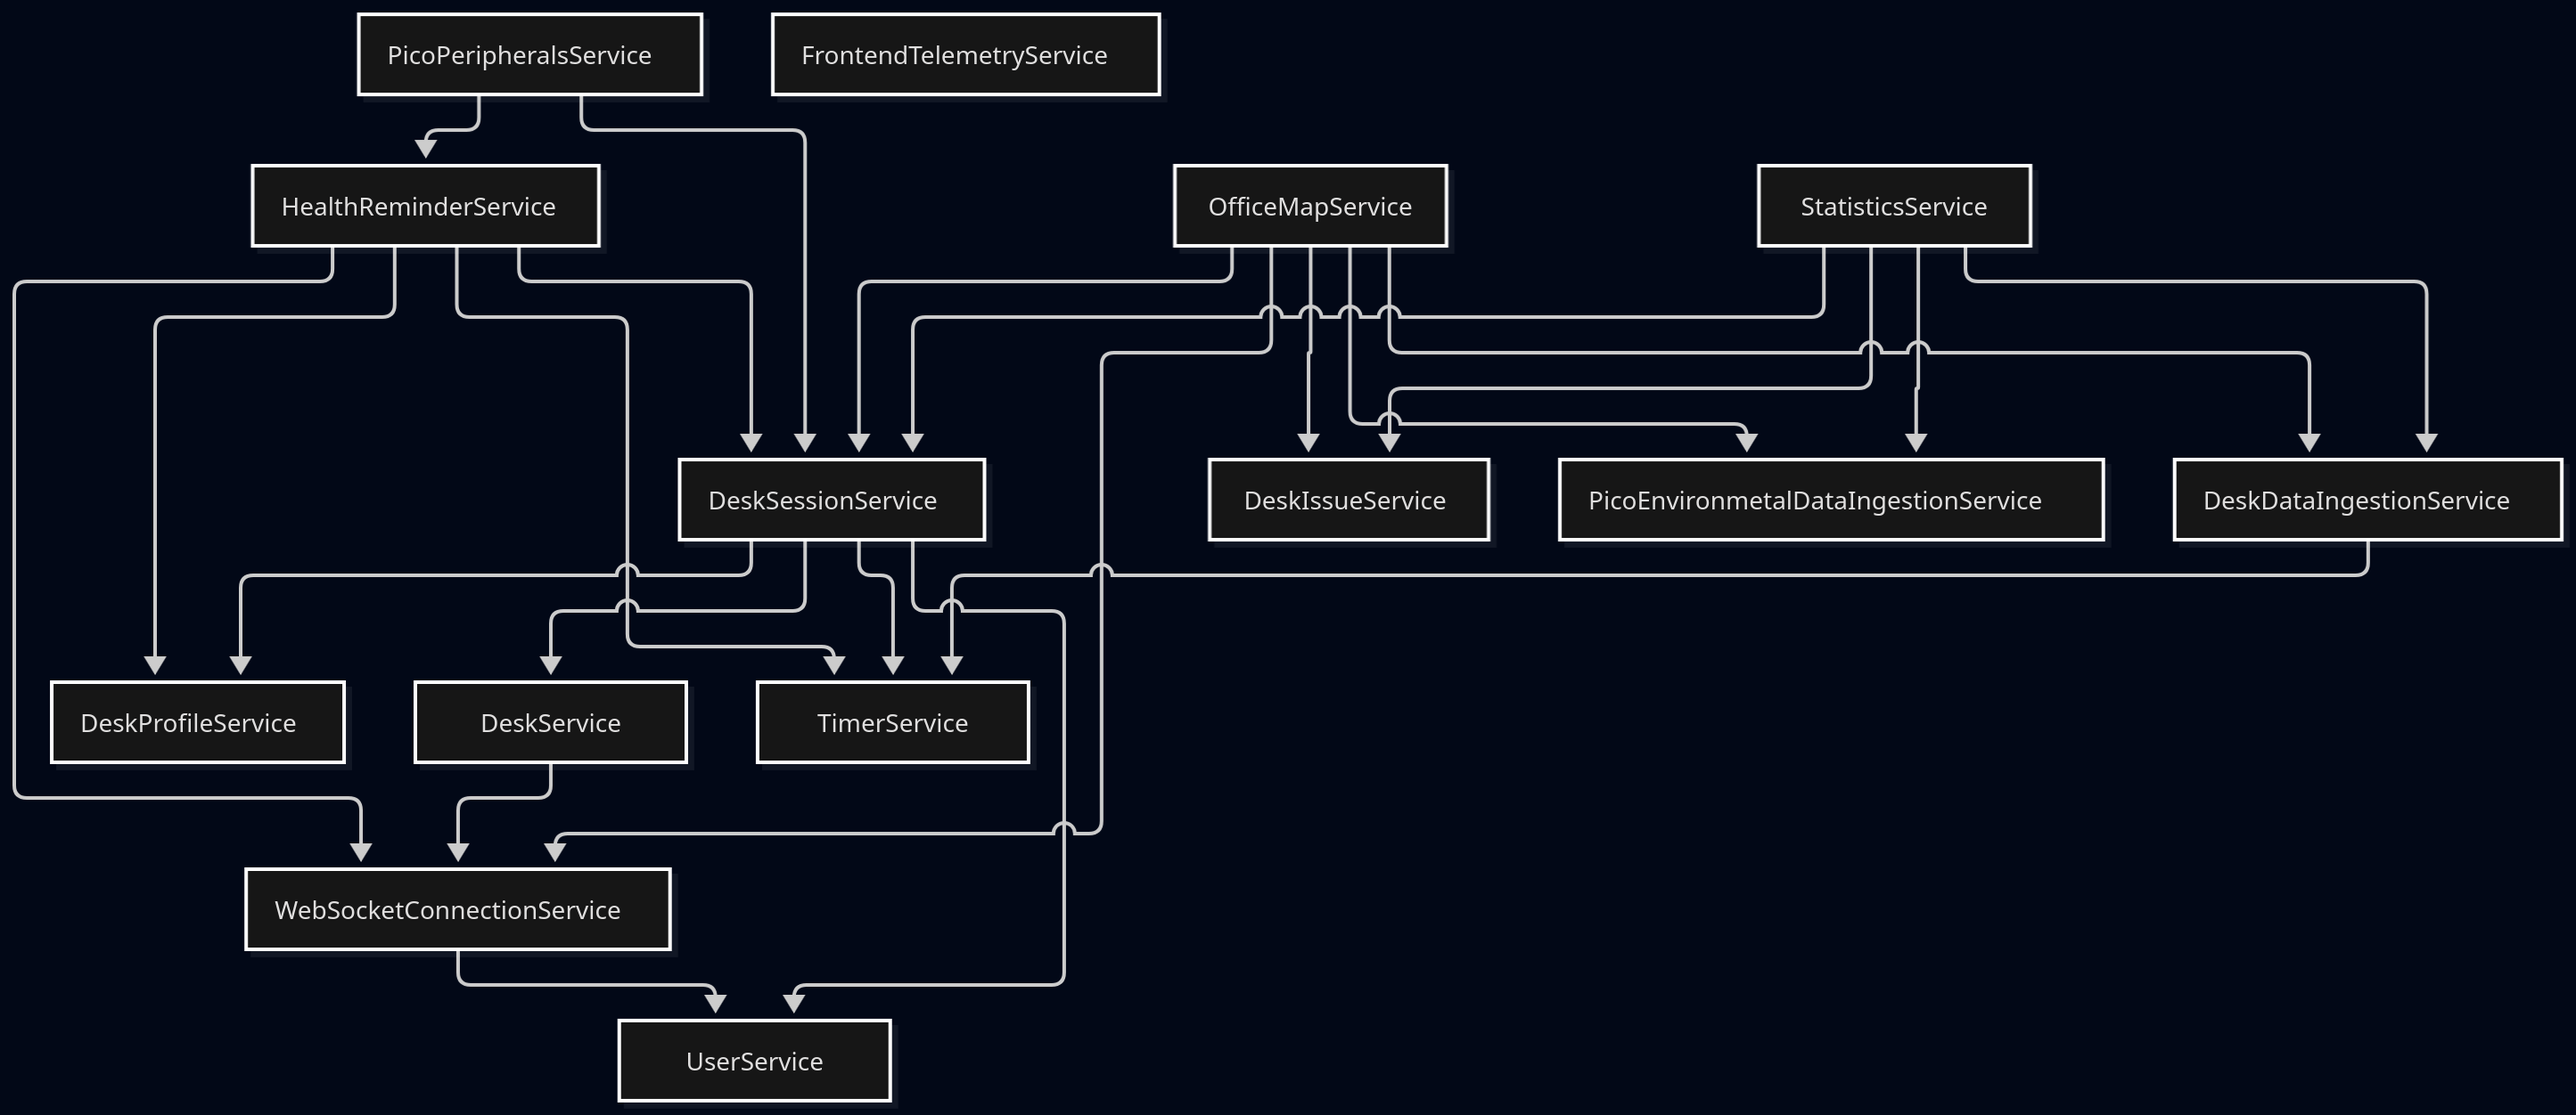
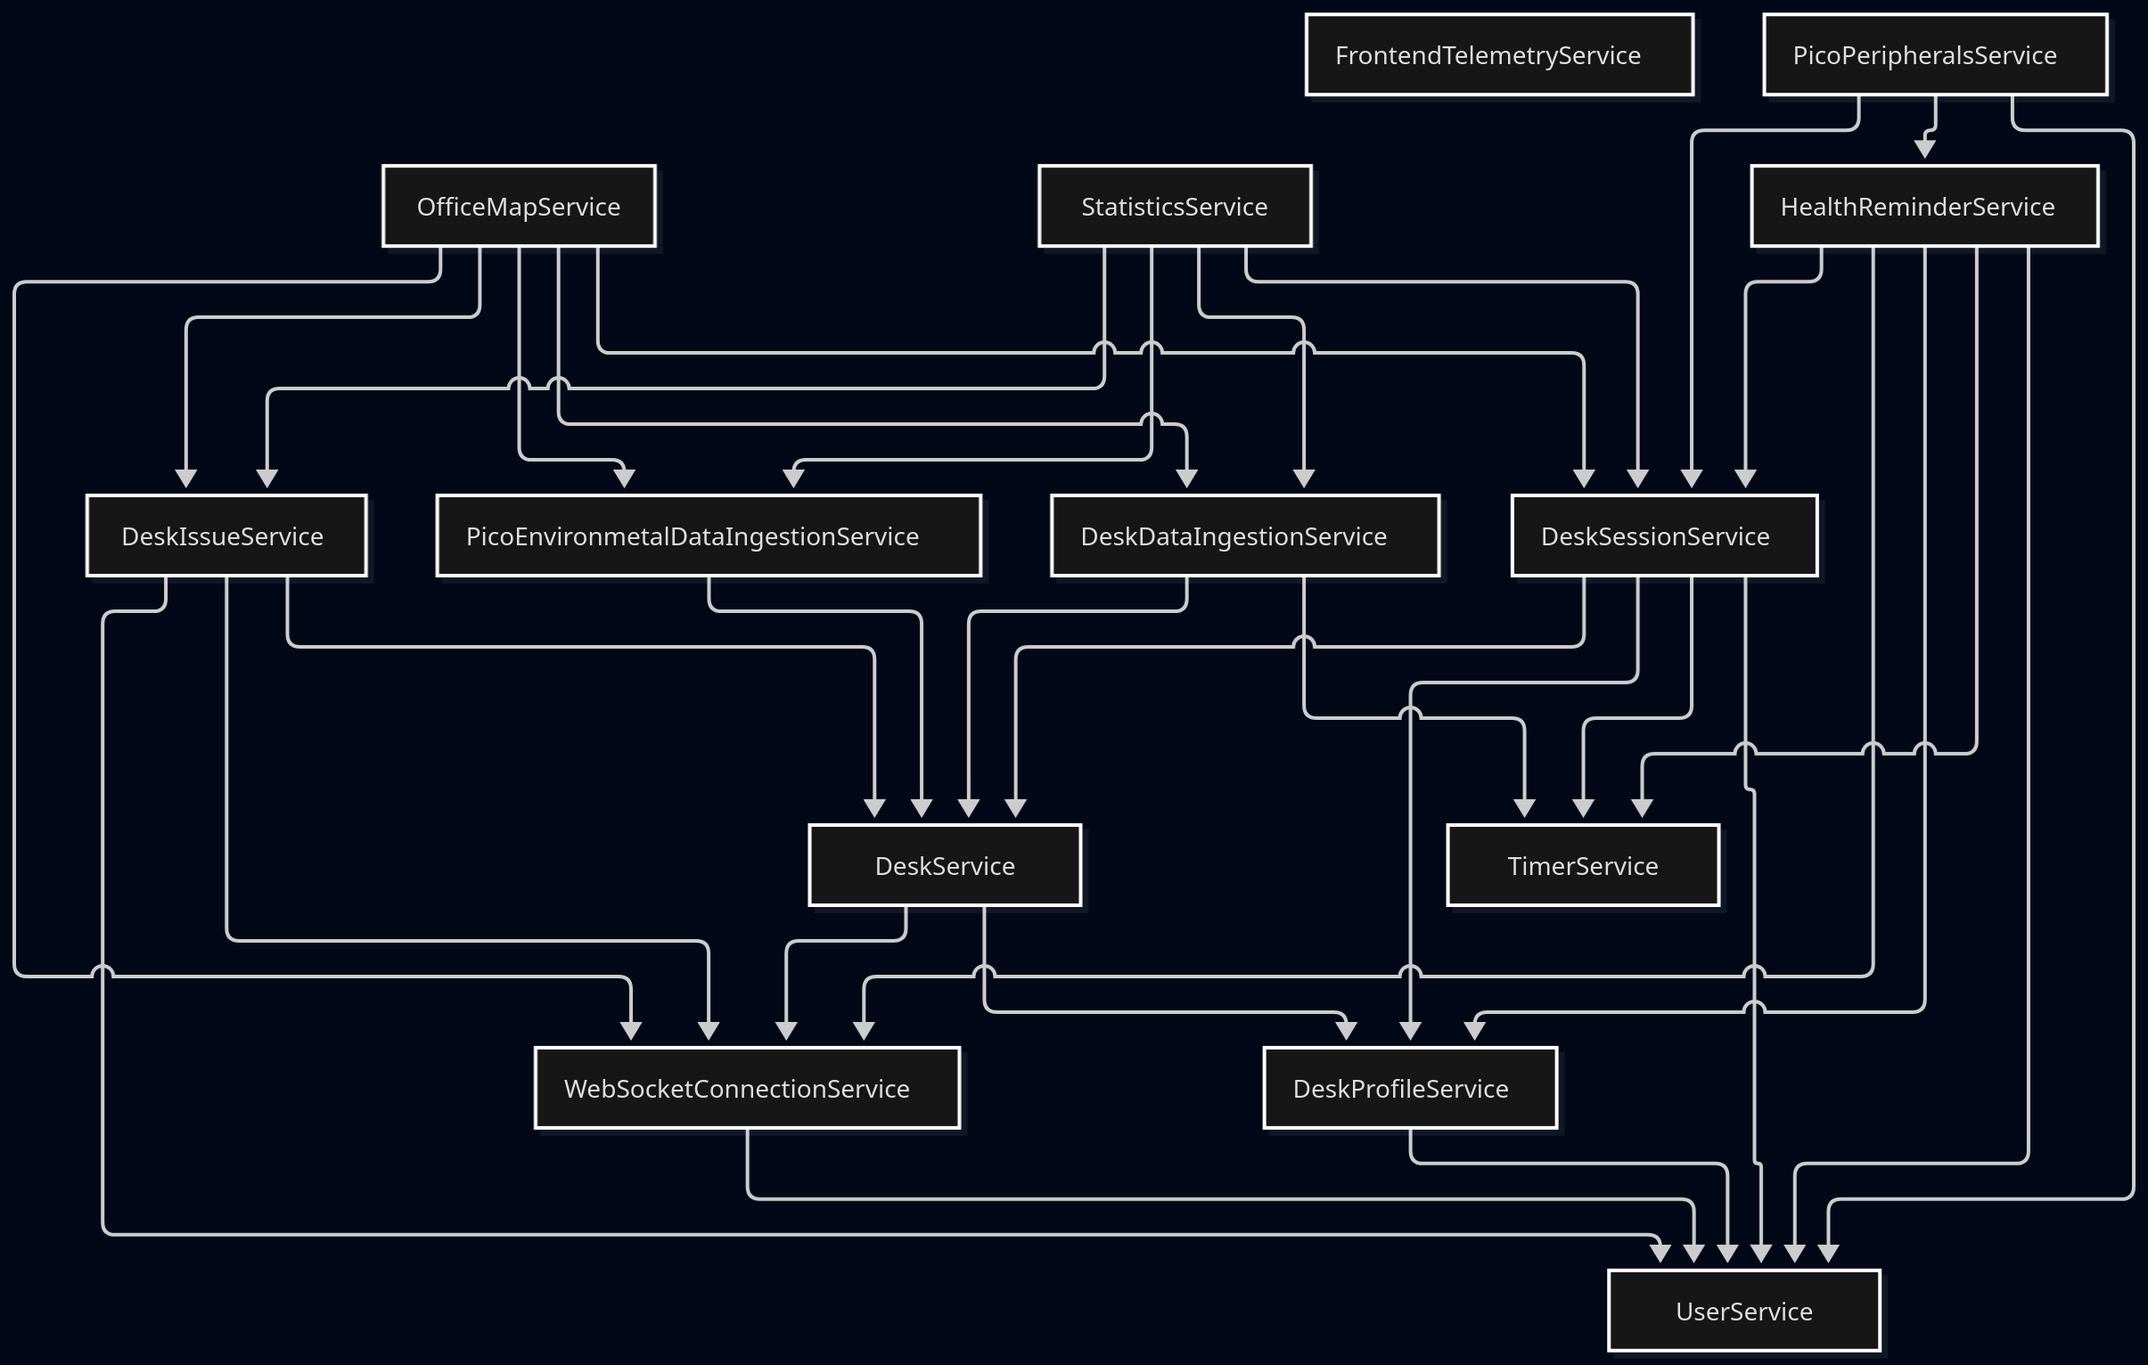
updated based on review feedback

diff --git a/docs/design-updated/frontend_modules.md b/docs/design-updated/frontend_modules.md
@@ -1,7 +1,5 @@
 # Frontend modules
 
-TODO: desk session config not exposed
-
 ## Authentication
 
 - Authenticating should open a WebSocket to the server. WebSocket should not be closed when navigating between pages. WebSocket should only be closed when logging out, tab with active WebSocket connection was closed, or WebSocket connection has timed out (checked on server-side, I think it's already automatic with WebSockets).
@@ -11,18 +9,18 @@ TODO: desk session config not exposed
 
 ## Dashboard
 
-### Current user widget
+### Current user sidebar icon
 
-- Current user first name and last name
-- Get/set status
-- Currently associated desk name
-- Check-in/check-out button
+- Current user first name and last name initials
 
-Settings:
+Dropdown menu:
 - Set new password
 
-### Current desk widget
+### Desk session widget
 
+- Currently associated desk name
+- Check-in/check-out button
+- Get/set user status
 - Get/set desk manual desk height
 - Get current desk profile
 - Get/set pending desk profile
@@ -30,10 +28,9 @@ Settings:
 ### Desk profile widget
 
 - Show a list of user's desk profiles
-    - Show columns: Name, desk height, enter desk profile threshold, exit desk profile threshold.
-    TODO: decide if exposing thresholds is too much, and we should hide it under advanced options, and provide default values instead.
-    - Create desk profile: Name, desk height, enter desk profile threshold, exit desk profile threshold.
-    - Edit desk profile: Name, desk height, enter desk profile threshold, exit desk profile threshold.
+    - Show columns: Name, desk height.
+    - Create desk profile: Name, desk height.
+    - Edit desk profile: Name, desk height.
     - Delete desk profile
 
 ### Healthy habits widget
@@ -54,6 +51,10 @@ Settings:
 - Cancel button in automatic warning notification and in standing timer widget
 - Receive manual move notification
 - Receive automatically moving notification (after automatic warning)
+
+### Minimap widget
+
+- Includes office map component, looks and behaves same as office map page
 
 ## Statistics page
 
@@ -105,32 +106,36 @@ Settings:
 ### Desks tab
 
 - Show list component of all desks
-    - Show columns: ID, name, REST API URL, min height, max height, manually changed desk height, current desk profile ID, pending desk profile ID, is desk profile autocorrection enabled
+    - Show columns: ID, name, REST API URL, min height, max height, desk category ID
     - Copy desk ID
-    - Create desk: name, REST API URL, min height, max height
-    - Edit desk: name, REST API URL, min height, max height
+    - Create desk: name, REST API URL, min height, max height, desk category ID
+    - Edit desk: name, REST API URL, min height, max height, desk category ID
     - Delete desk
 
 Currently, administrator has to enter desk name, min height and max height, meanwhile they are technically accessible from REST API URL.
 Any added desk does not automatically move on its own, because "is desk profile autocorrection enabled" is set to false. This allows the administrator, for instance, to set default category to a desk before desk is controlled.
-TODO: does it make sense to change manually changed desk height, current desk profile ID, pending desk profile ID, and is desk profile autocorrection enabled
 
-### Desk categories tab
+### Admin settings
+
+#### Desk categories
 
 - Show list component of desk categories
-    - Show columns: ID, Name, Desk IDs, Default desk profile ID
+    - Show columns: ID, Name, Default desk profile ID
     - Copy desk category ID
-    - Create desk category: name, Desk IDs, Default desk profile ID
-    - Edit desk category: name, Desk IDs, Default desk profile ID
+    - Create desk category: name, Default desk profile ID
+    - Edit desk category: name, Default desk profile ID
     - Delete desk category
 
-UI will not be the best looking one, as it will have a desk ID array inside a list row. Furthermore, it contains a lot of IDs. We could hide details of IDs, and always show to user desk names and desk profile names. When creating and editing, there would be dropdowns with desk names and desk profile names, not ID field.
+#### Desk session
+
+- Setting value: Automatic desk association timeout duration
 
 ### Desk sessions tab
 
 - Show list component of desk sessions
     - Show columns: ID, User ID, Desk ID, Start timestamp, Finished timestamp, finished reason
     - List is purely read-only, and even admin should not modify or delete desk sessions
+    - Actions: Check-out desk session
 
 ### Shared tabs
 
@@ -140,6 +145,8 @@ Same tabs added to tab list:
 - Issues page
 
 ## Office map
+
+Describes office map component, which is included in office map page.
 
 3 different map modes:
 - Standard mode
@@ -190,6 +197,8 @@ List:
 Time-series graph:
     - Standard graph, but allows to select time period
     - Time period selection: today, yesterday, this week, last week, customly selected day range using calendar widget
+Office map component:
+    - Designed as component as it is included in dashboard and dedicated office map page
 Time period selector might be reusable between statistics and office map.
 
 Standard elements, such as buttons, popups/dialogs, form elements, dropdowns, checkboxes, select boxes, tabs, textareas, toggle boxes.

diff --git a/docs/design-updated/entities_relationships.md b/docs/design-updated/entities_relationships.md
@@ -12,7 +12,6 @@
 - Email
 - Password hash
 - Role: ['user', 'admin']
-- Status: ['online', 'away', 'do not disturb', 'offline']
 - User card ID
 
 ID:
@@ -31,8 +30,6 @@ Email and password:
 Role:
 - Admin role has access to admin dashboard page
 
-Idea: for frontend, big banner for 'away' which prevents doing anything before changing status back to something else not 'away'.
-
 ### Actions
 
 - Get users (offset, limit) -> data
@@ -42,7 +39,6 @@ Idea: for frontend, big banner for 'away' which prevents doing anything before c
 - Delete user (ID)
 - Login (ID)
 - Logout (ID)
-- Set status (ID, new status)
 - Update password (ID, new password)
 
 Update user is both for admin, which allows to change almost everything. If it is user who is changing, they are limited to password and status.
@@ -52,7 +48,6 @@ Update user is both for admin, which allows to change almost everything. If it i
 - On user deleted (ID)
 - On logged in (ID)
 - On logged out (ID)
-- On status changed (ID, old status, new status)
 
 ## WebSocket connection
 
@@ -83,12 +78,13 @@ Update user is both for admin, which allows to change almost everything. If it i
 - REST API URL
 - Min height (in mm)
 - Max height (in mm)
+- Desk category ID
 - Manually changed desk height
 - Current desk profile ID (can be null)
 - Pending desk profile ID (can be null)
 - Is desk profile autocorrection enabled
 
-When manually changing desk height, if height exits current desk profile threshold, current desk profile is removed.
+When manually changing desk height, current profile always stays the same and is not removed.
 
 ID:
 - Receiving MQTT packets
@@ -125,7 +121,6 @@ On desk updated:
 
 - ID
 - Name
-- Desk IDs
 - Default desk profile ID
 
 ### Actions
@@ -149,6 +144,7 @@ On desk updated:
 - ID
 - User ID
 - Desk ID
+- Status: ['online', 'away', 'do not disturb', 'offline']
 - Started at timestamp
 - Finished at timestamp
 - Finished reason: ['timeout', 'checkout']
@@ -157,11 +153,14 @@ On desk updated:
 
 At the end of desk session, ideally if there is no another desk session, it should clear any current or pending desk profiles for the desk, and it should reset back to desk category's default desk profile.
 
+Idea: for frontend, big banner for 'away' which prevents doing anything before changing status back to something else not 'away'.
+
 ### Actions
 
 - Get desk sessions (offset, limit) -> data
 - Get desk session (ID) -> data
 - Get user desk session (user ID) -> data
+- Set status (ID, new status)
 - Check-in (user ID, desk ID) -> desk session ID
 - Check-out (ID)
 - Check-out user (user ID)
@@ -171,6 +170,7 @@ At the end of desk session, ideally if there is no another desk session, it shou
 
 - On desk session started (ID)
 - On desk session ended (ID)
+- On status changed (ID, old status, new status)
 - On automatic timeout notification (ID)
 - On automatic timeout action (ID)
 
@@ -184,6 +184,7 @@ It is global config for all. There is only one entry, so ID is not needed.
 
 ### Actions
 
+- Get config () -> data
 - Update config (new config)
 
 ### Events
@@ -198,11 +199,6 @@ It is global config for all. There is only one entry, so ID is not needed.
 - User ID
 - Name
 - Desk height (in mm)
-- Enter desk profile threshold (in mm)
-- Exit desk profile threshold (in mm)
-
-Enter and exit desk profile thresholds are needed when the user is manually changing the desk height. It should detect that the desk has entered height range of a new desk profile. E.g., user has manually moved their desk from standing position to a sitting one. Different enter and exit thresholds are needed to prevent high fluctuation at the boundary of thresholds.
-Automatic profile switching would also mean that overlap between desk heights is not expected or not even allowed.
 
 ### Actions
 

diff --git a/docs/design-updated/backend_services.md b/docs/design-updated/backend_services.md
@@ -11,10 +11,6 @@ Load balancing/scaling REST APIs is easy, especially in Kubernetes with services
 
 Follows `entities_relationships.md`. Frontend is expected to use REST API and WebSockets to communicate with the services. If in the future frontend needs to access more information, relevant services need to be modified. If the frontend needs to store more data, it depends. If it fits to already existing services, they are modified. If it a new feature, e.g. maps, then it should be a new service, which is loosely-coupled and has clear responsibilities.
 
-Potentially missing:
-- Analytics/statistics service
-- Map service (e.g. user preferences, search)
-
 Timer research:
 - https://hackernoon.com/building-a-distributed-timer-service-at-scale-handling-100k-timers-per-second
 
@@ -26,9 +22,7 @@ TODO: Failover handling, retries and timeouts
 
 Fully owns "User" entity. Anything that modifies "User" entity goes through this handler. This includes CRUD for users and authentication. Authentication is too tightly-connected with User to move it to a separate service.
 
-Creation, editing and deletion exposed to admin. Updating password and status is available to respective user.
-
-When user logs in, the service will set status for the user to "online". And it will trigger "on status changed" event.
+Creation, editing and deletion exposed to admin. Updating password is available to respective user.
 
 ## WebSocket connection service
 
@@ -40,7 +34,9 @@ Fully owns "Desk" entity. This includes CRUD for desks for admins, automatic con
 
 ## Desk session service
 
-Fully owns "Desk session", and "Desk session config" entities. Fully responsible for check-in/check-out, handling automatic timeouts, and updating user status based on desk activity. Note that it has timestamps, which means it needs to correctly handle timers using timer service.
+Fully owns "Desk session", and "Desk session config" entities. Fully responsible for check-in/check-out, handling automatic timeouts, and updating user status based on desk activity and user interaction. Note that it has timestamps, which means it needs to correctly handle timers using timer service.
+
+When user checks-in, the service will set status for the user to "online". And it will trigger "on status changed" event.
 
 ## Health reminder service
 
@@ -58,7 +54,7 @@ Fully owns "Desk issue" entity. Responsible for CRUD for desk issues, sending no
 
 ## Pico peripherals service
 
-Fully owns "Pico peripherals" entity. Responsible to track events to desk status and health reminders to set correct desk Pico LED colour, and play buzzer sounds.
+Fully owns "Pico peripherals" entity. Responsible to track events to desk status and health reminders to set correct desk Pico LED colour, and play buzzer sounds. It is also responsible for RFID authentication, communicating with desk session service to start new desk session with RFID card.
 
 ## Pico environmental data ingestion service
 

diff --git a/docs/design-updated/TODO.md b/docs/design-updated/TODO.md
@@ -1,0 +1,5 @@
+Remaining design related things:
+- Sequence diagram for desk control
+- Flow diagram of the common expected user journey
+- Make class diagram based on E/R diagram
+- Update E/R diagram to use correct crow notation
